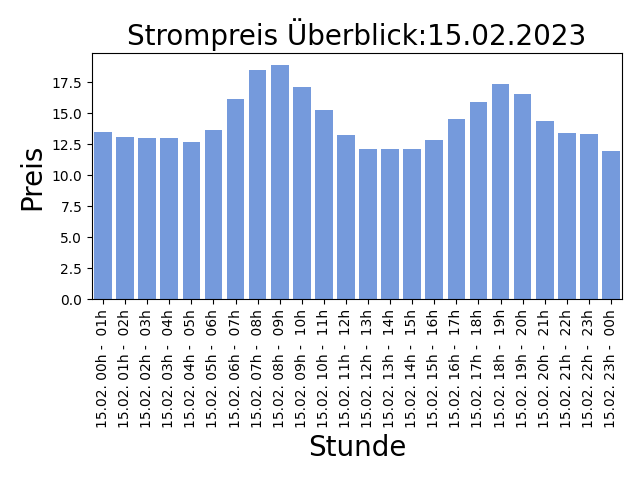
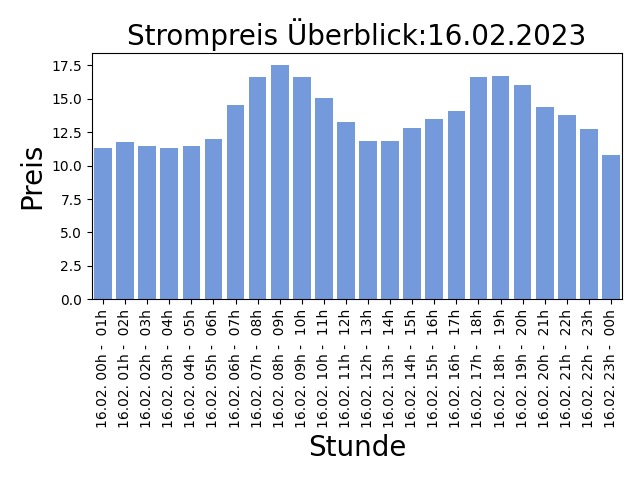
AUTOMATIC UPDATE PRICE LIST: 2023-02-15-14:30:07

diff --git a/README.md b/README.md
@@ -1,5 +1,5 @@
 
-## Strompreise für den 15.02.2023
+## Strompreise für den 16.02.2023
 
 Niedrige Preise deuten auf viel Sonnen und Windenergieerzeugung hin, ein hoher Anteil an erneuerbaren Energien bedeuted weniger CO2 Verbrauch!
 
@@ -7,31 +7,31 @@ Niedrige Preise deuten auf viel Sonnen und Windenergieerzeugung hin, ein hoher A
 
 | Stunde | Preis in Cent/kWh |
 |---|---|
-| 15.02. 00h -  01h | 13.481 | 
-| 15.02. 01h -  02h | 13.094999999999999 | 
-| 15.02. 02h -  03h | 13.0 | 
-| 15.02. 03h -  04h | 13.001 | 
-| 15.02. 04h -  05h | 12.666 | 
-| 15.02. 05h -  06h | 13.653 | 
-| 15.02. 06h -  07h | 16.119999999999997 | 
-| 15.02. 07h -  08h | 18.5 | 
-| 15.02. 08h -  09h | 18.875999999999998 | 
-| 15.02. 09h -  10h | 17.122 | 
-| 15.02. 10h -  11h | 15.252 | 
-| 15.02. 11h -  12h | 13.216 | 
-| 15.02. 12h -  13h | 12.079 | 
-| 15.02. 13h -  14h | 12.145 | 
-| 15.02. 14h -  15h | 12.138 | 
-| 15.02. 15h -  16h | 12.871 | 
-| 15.02. 16h -  17h | 14.499 | 
-| 15.02. 17h -  18h | 15.88 | 
-| 15.02. 18h -  19h | 17.352 | 
-| 15.02. 19h -  20h | 16.525 | 
-| 15.02. 20h -  21h | 14.359 | 
-| 15.02. 21h -  22h | 13.397 | 
-| 15.02. 22h -  23h | 13.313999999999998 | 
-| **15.02. 23h -  00h** | **11.91** | 
+| 16.02. 00h -  01h | 11.286 | 
+| 16.02. 01h -  02h | 11.748000000000001 | 
+| 16.02. 02h -  03h | 11.452 | 
+| 16.02. 03h -  04h | 11.334999999999999 | 
+| 16.02. 04h -  05h | 11.5 | 
+| 16.02. 05h -  06h | 11.995999999999999 | 
+| 16.02. 06h -  07h | 14.559999999999999 | 
+| 16.02. 07h -  08h | 16.65 | 
+| 16.02. 08h -  09h | 17.534 | 
+| 16.02. 09h -  10h | 16.644 | 
+| 16.02. 10h -  11h | 15.028 | 
+| 16.02. 11h -  12h | 13.294 | 
+| 16.02. 12h -  13h | 11.818000000000001 | 
+| 16.02. 13h -  14h | 11.863 | 
+| 16.02. 14h -  15h | 12.793000000000001 | 
+| 16.02. 15h -  16h | 13.495 | 
+| 16.02. 16h -  17h | 14.096 | 
+| 16.02. 17h -  18h | 16.6 | 
+| 16.02. 18h -  19h | 16.692 | 
+| 16.02. 19h -  20h | 16.059 | 
+| 16.02. 20h -  21h | 14.357 | 
+| 16.02. 21h -  22h | 13.796000000000001 | 
+| 16.02. 22h -  23h | 12.751999999999999 | 
+| **16.02. 23h -  00h** | **10.806999999999999** | 
 
 Preise der EPEX Spot ® Strombörse (neue Preise werden täglich um 14:00 veröffentlicht für den kompletten nächsten Tag).
 
-letzte Aktualisierung:14.02.2023 14:30
+letzte Aktualisierung:15.02.2023 14:30
